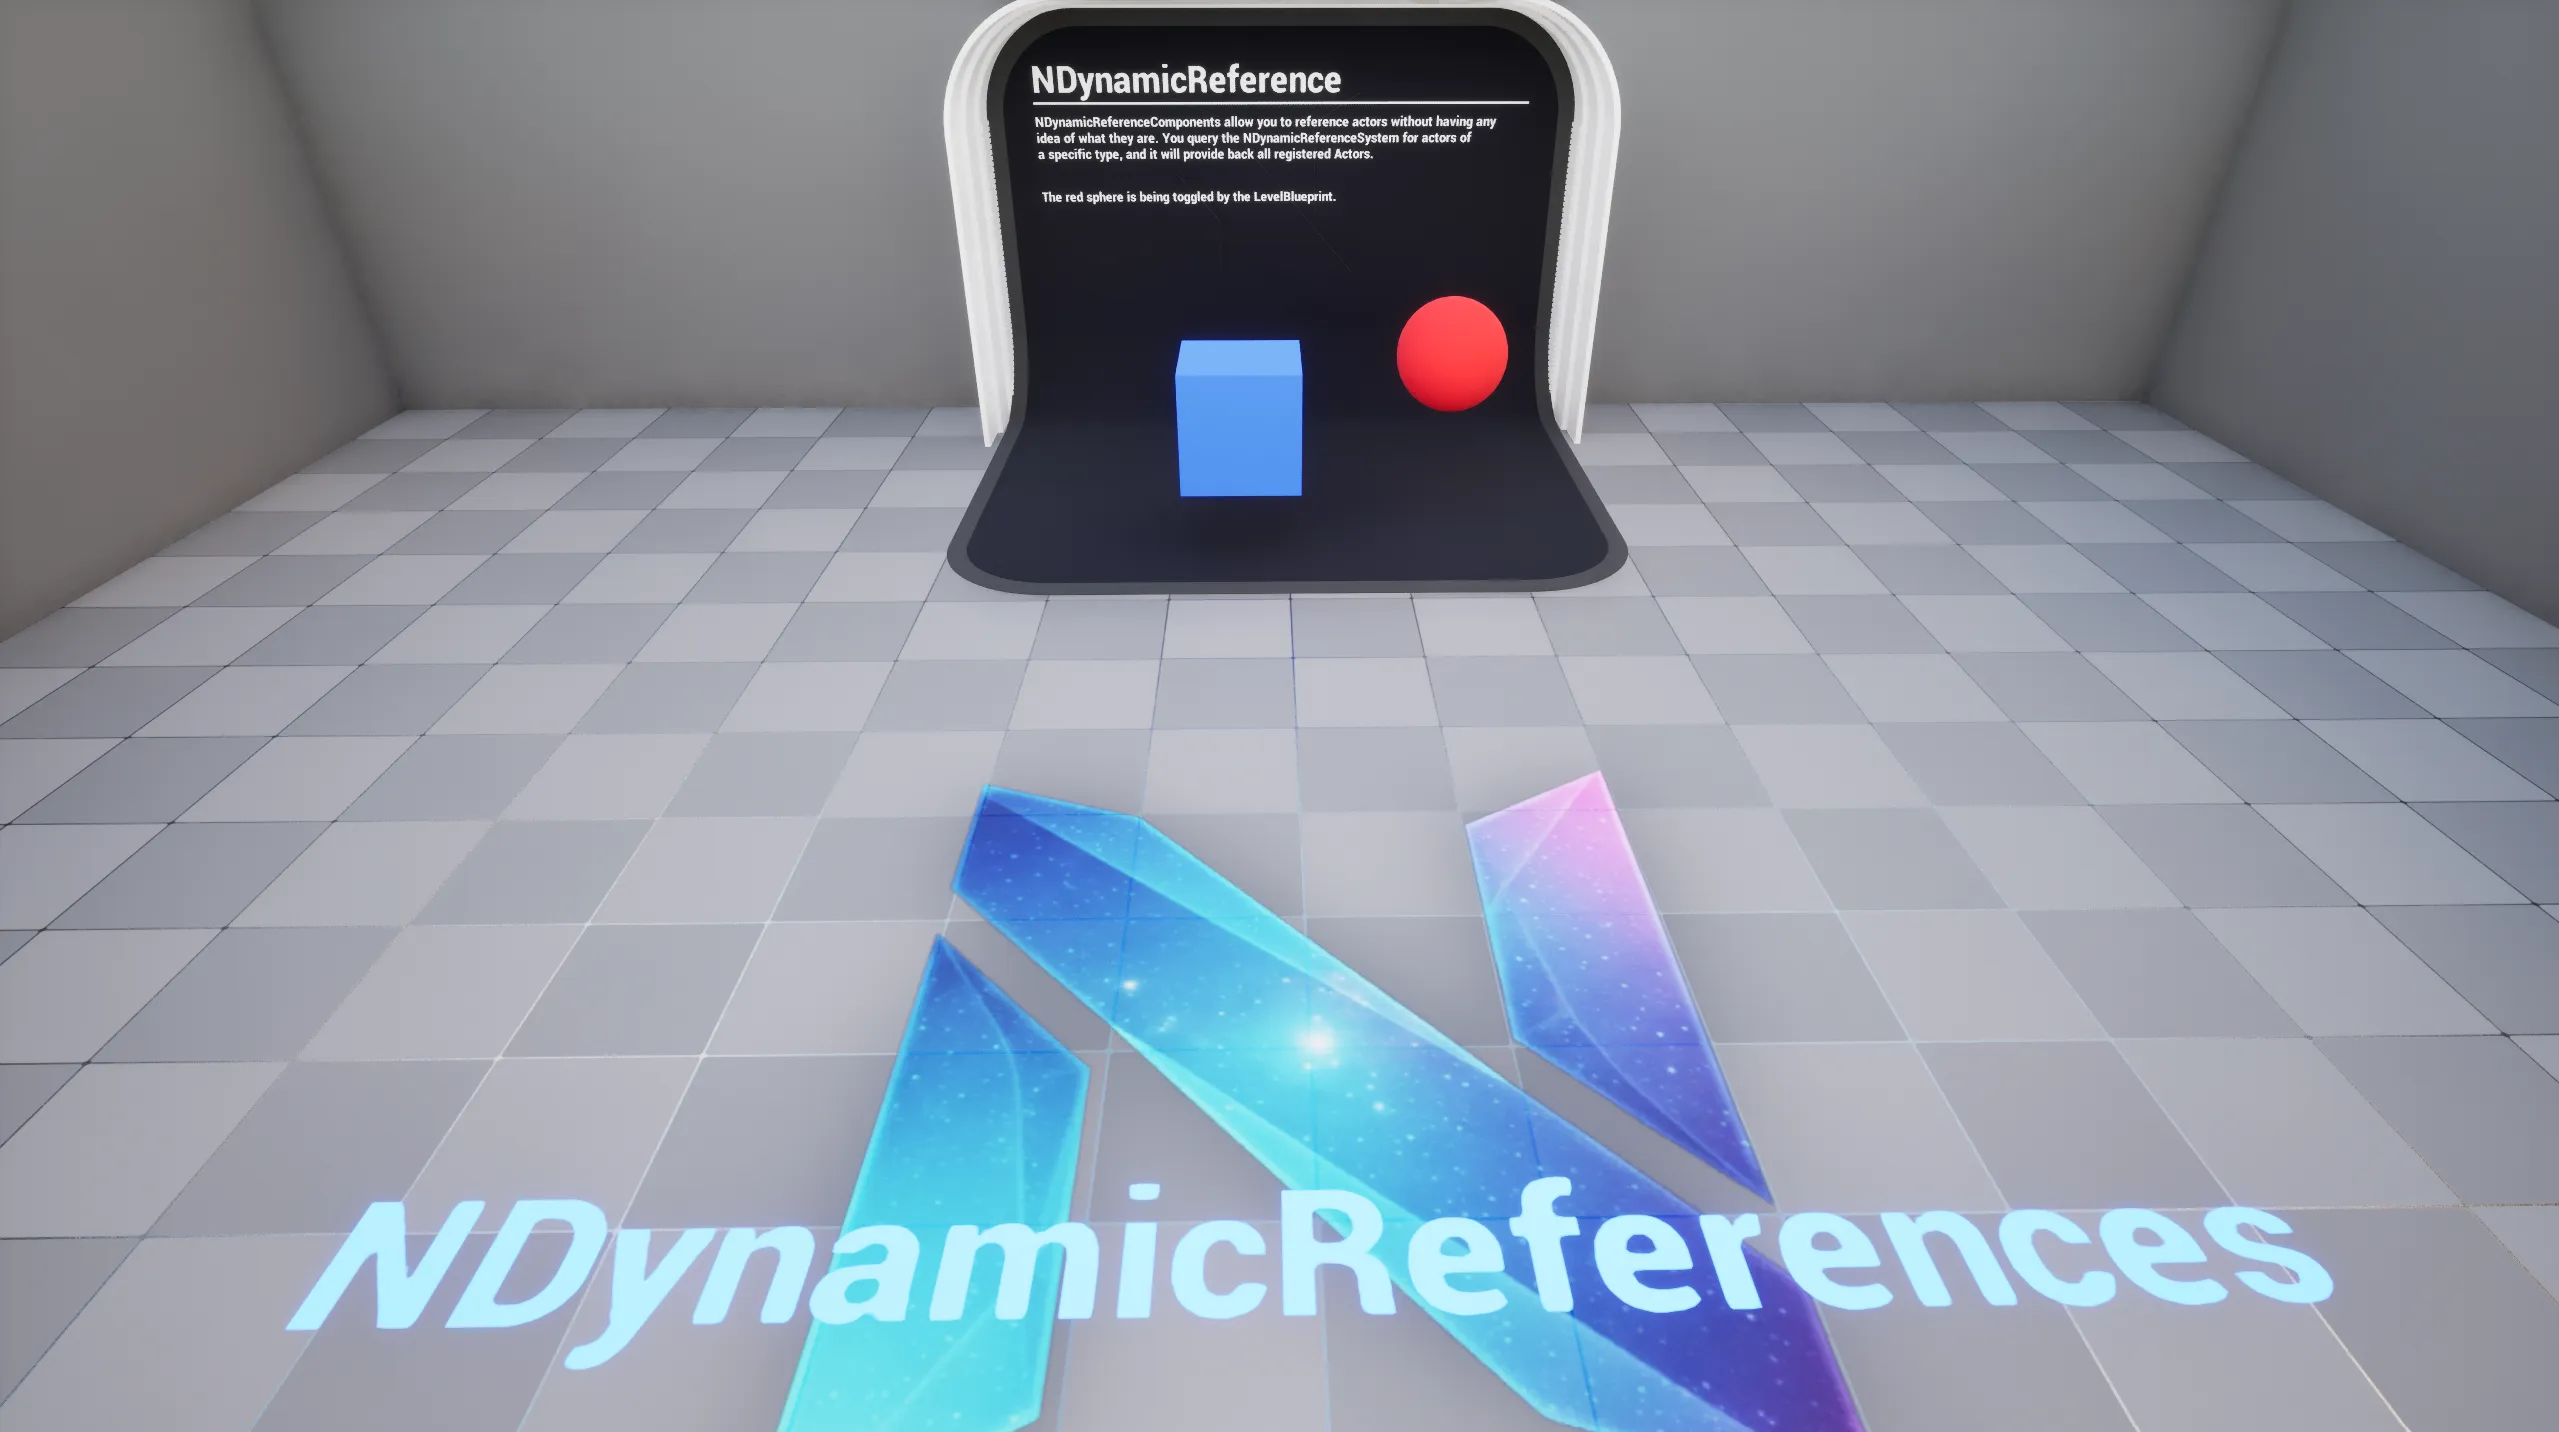
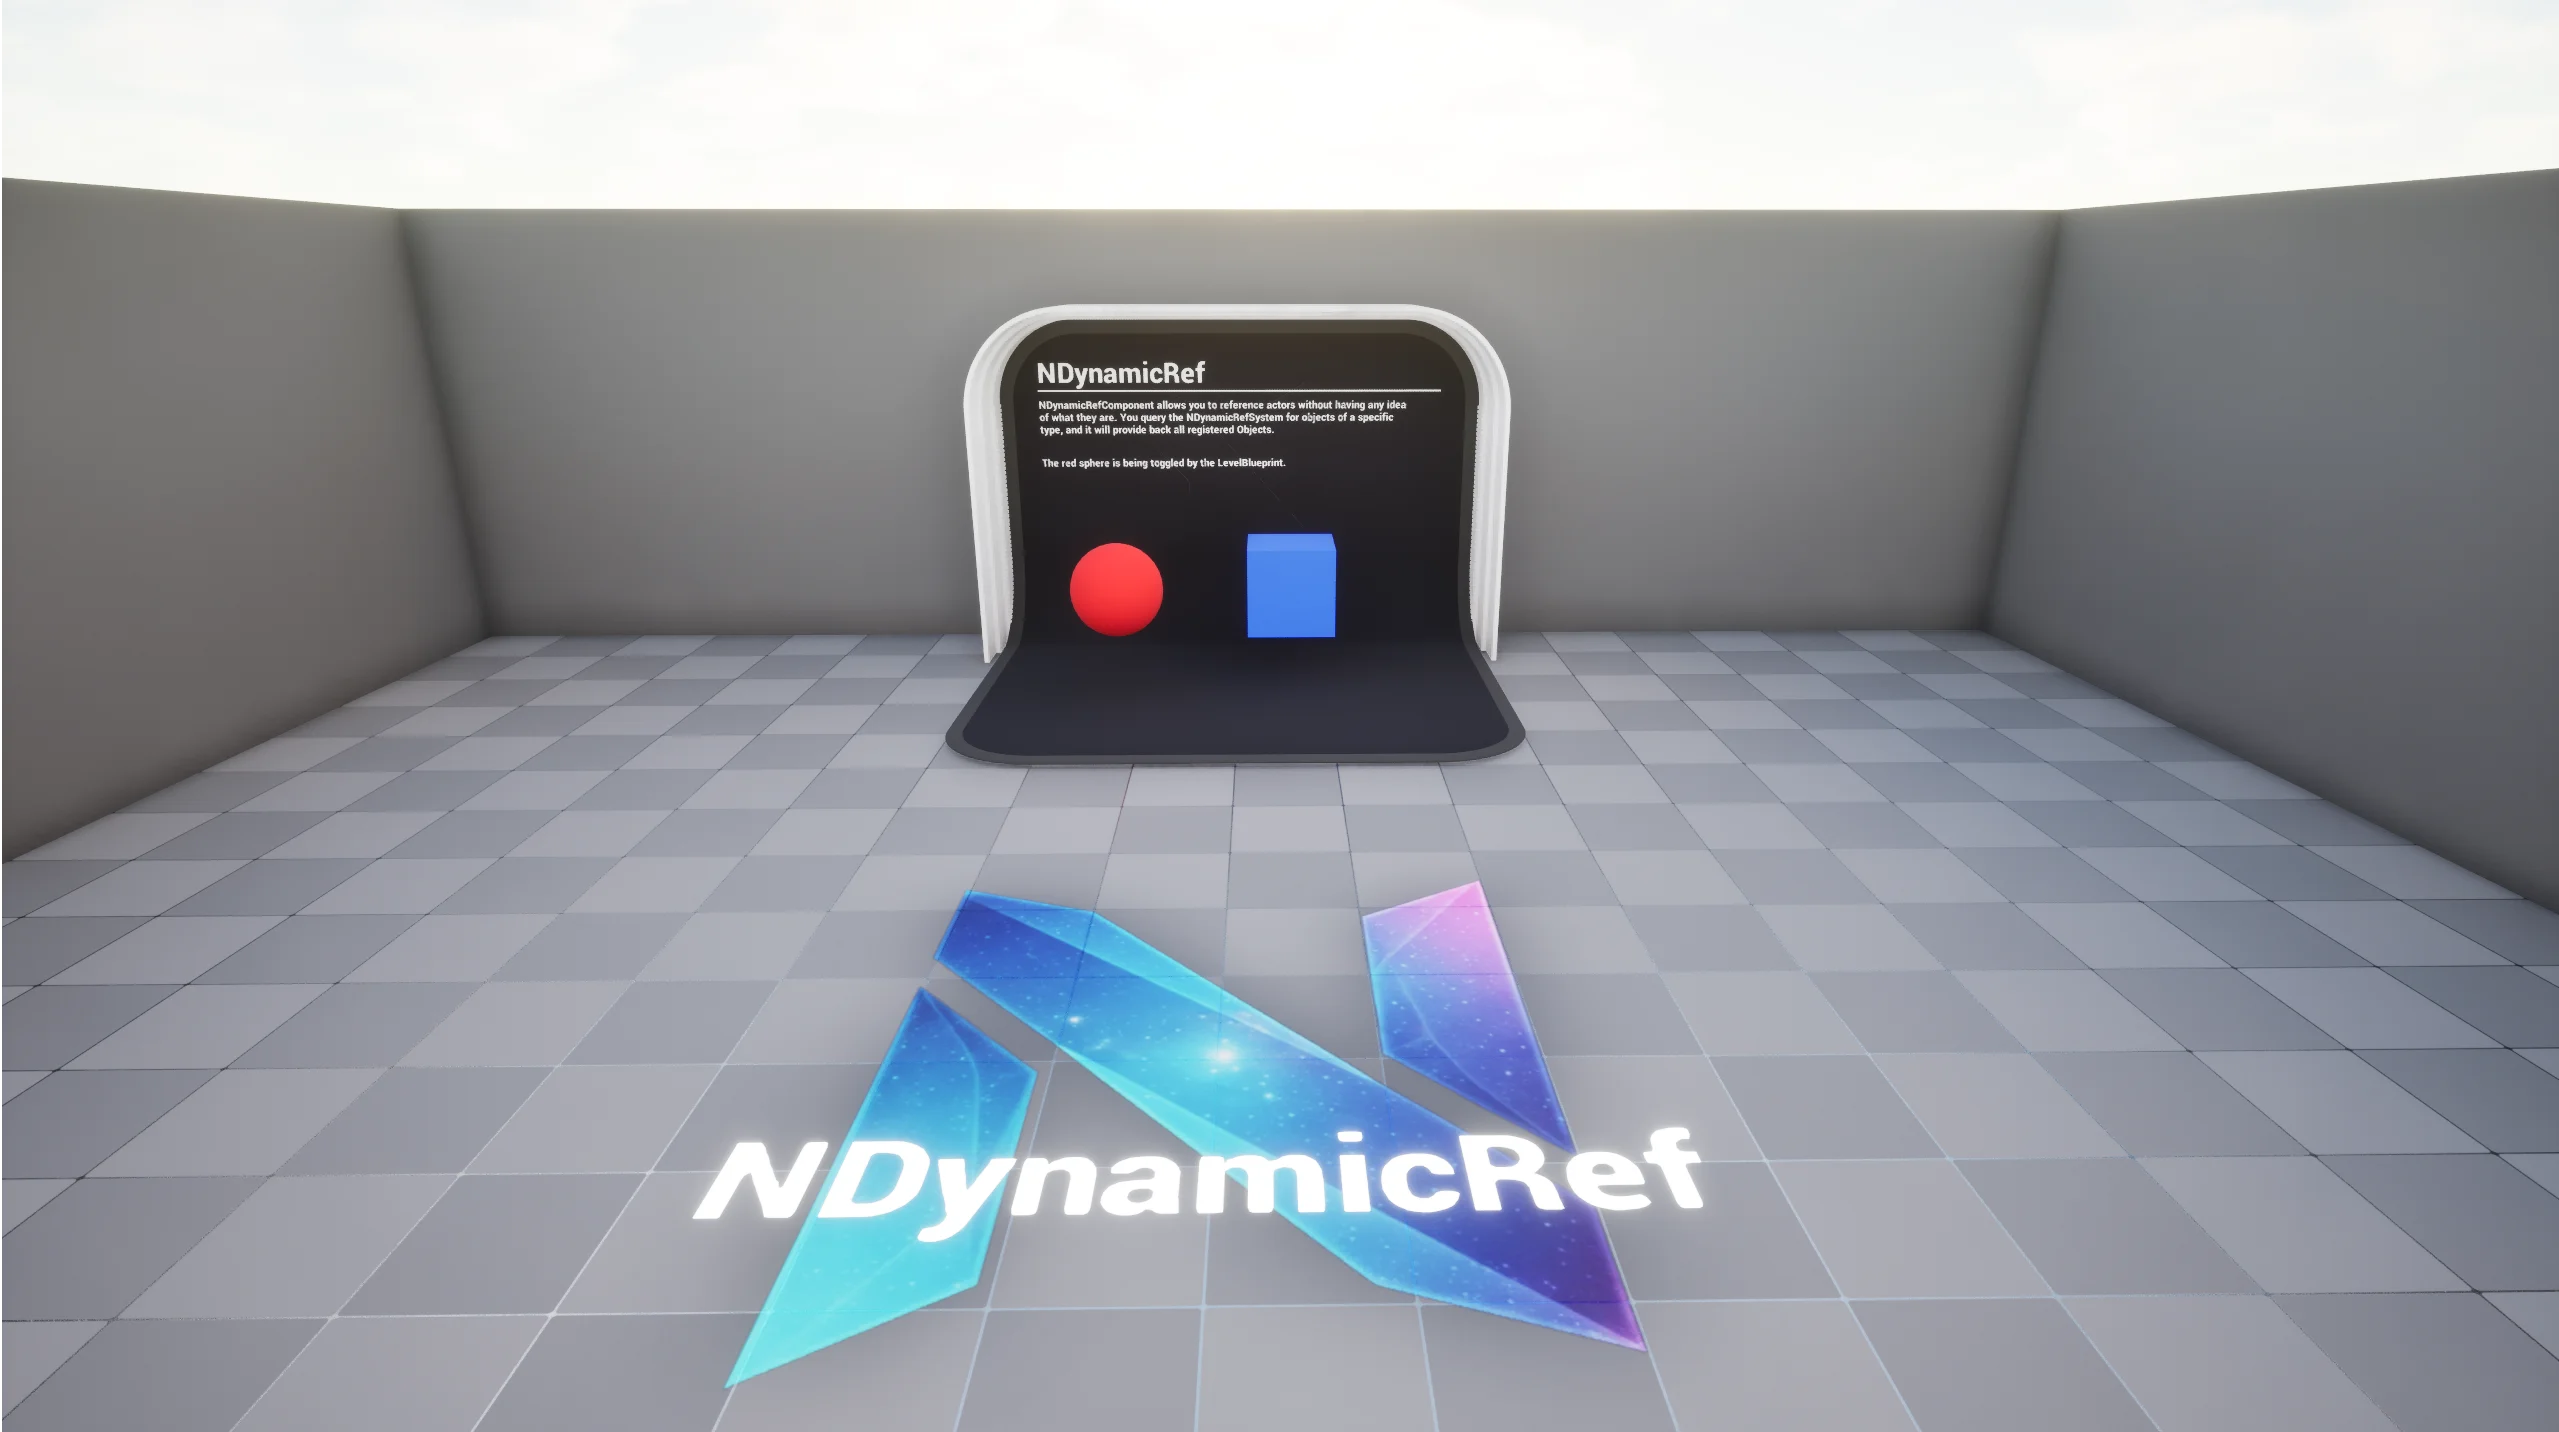
WIP on new dynamic ref docs

diff --git a/src/components/PluginDetails/index.tsx b/src/components/PluginDetails/index.tsx
@@ -39,16 +39,16 @@ var Plugins: { [id: string]: IPlugin; } = {
     blueprintCategory: "NEXUS > Actor Pools"
   },
 
-  "NexusDynamicReferences": {
+  "NexusDynamicRefs": {
     icon: "/assets/images/plugins/dynamic-references-icon.webp",
-    moduleName: "NexusDynamicReferences",
-    shortName: "NDynamicReferences",
+    moduleName: "NexusDynamicRef",
+    shortName: "NDynamicRef",
     category: "Systems",
     initialRelease: "0.1.0",
     owner: "reapazor",
-    description: "Method for referring to runtime Actors without knowing them.",
-    link: "/docs/plugins/dynamic-references/",
-    blueprintCategory: "NEXUS > Dynamic References"
+    description: "Method for referring to UObjects prior to runtime, and by developer readable names.",
+    link: "/docs/plugins/dynamic-ref/",
+    blueprintCategory: "NEXUS > DynamicRef"
   },
 
   "NexusFixers": {

diff --git a/docs/plugins/dynamic-references/types/dynamic-ref-subsystem.md b/docs/plugins/dynamic-references/types/dynamic-ref-subsystem.md
@@ -12,9 +12,9 @@ import TabItem from '@theme/TabItem';
 
 # Actor Pool Subsystem
 
-<TypeDetails icon="ue-world-subsystem" base="UTickableWorldSubsystem" type="UNDynamicReferencesSubsystem" typeExtra="" headerFile="NexusDynamicReferences/Public/NDynamicReferencesSubsystem.h" />
+<TypeDetails icon="ue-world-subsystem" base="UTickableWorldSubsystem" type="UNDynamicRefSubsystem" typeExtra="" headerFile="NexusDynamicRef/Public/NDynamicRefSubsystem.h" />
 
-A locator system that maintains a map (`ReferenceMap`) that organizes actors into predefined categories defined by the [ENDynamicReference](dynamic-reference.md) enumeration.
+A locator system that maintains a map (`ReferenceMap`) that organizes actors into predefined categories defined by the [ENDynamicRef](dynamic-ref.md) enumeration.
 
 ## Getting Actor References
 
@@ -26,13 +26,13 @@ Accessing referenced `AActor` can be done with minimal overhead.
 
 :::note
 
-In the above blueprint example, the [UNDynamicReferenceComponnet](dynamic-reference-component.md) would need to have its `Link Phase` set to `ACLS_InitializeComponent` in order to ensure it is registered prior to a hypothetical `BeginPlay()` event.
+In the above blueprint example, the [UNDynamicRefComponnet](dynamic-ref-component.md) would need to have its `Link Phase` set to `ACLS_InitializeComponent` in order to ensure it is registered prior to a hypothetical `BeginPlay()` event.
 
 :::  
   </TabItem>
   <TabItem value="native" label="C++" attributes={{className: 'tab-native' }}>
 ```cpp title="Getting Dynamic References"
-for (TArray<AActor*>& ReferencedActors = UNDynamicReferenceSubsystem::Get(GetWorld())->GetReferences(ENDynamicReference::NDR_Item_L);
+for (TArray<AActor*>& ReferencedActors = UNDynamicRefubsystem::Get(GetWorld())->GetReferences(ENDynamicRef::NDR_Item_L);
   AActor*& Actor : ReferencedActors)
 {
   // Do something with Actor
@@ -47,28 +47,28 @@ for (TArray<AActor*>& ReferencedActors = UNDynamicReferenceSubsystem::Get(GetWor
 
 ```cpp
 /**
-  * Add a reference by ENDynamicReference to a specified AActor.
+  * Add a reference by ENDynamicRef to a specified AActor.
   * @remark Be careful with the manual add method. If you add it, you must remove it!
   * @param InType The desired dynamic reference type to add too.
   * @param InActor The AActor to be referenced by the InType.
   */
-void AddReference(ENDynamicReference InType, AActor* InActor);
+void AddReference(ENDynamicRef InType, AActor* InActor);
 ```
 
 :::tip
 
-The [UNDynamicReferenceComponent](dynamic-reference-component.md) automatically manages the registration lifecycle.
+The [UNDynamicRefComponent](dynamic-ref-component.md) automatically manages the registration lifecycle.
 
 :::
 
 ### Remove Reference
 ```cpp
 /**
-  * Remove a reference by ENDynamicReference to a specified AActor.
+  * Remove a reference by ENDynamicRef to a specified AActor.
   * @param InType The desired dynamic reference type to remove from.
   * @param InActor The AActor to be have its reference removed by the InType.
   */
-void RemoveReference(ENDynamicReference InType, AActor* InActor);
+void RemoveReference(ENDynamicRef InType, AActor* InActor);
 ```
 
 ### Get References
@@ -79,6 +79,6 @@ void RemoveReference(ENDynamicReference InType, AActor* InActor);
   * @param InType The desired dynamic reference type to access.
   * @return An array of AActors. 
   */
-TArray<AActor*>& GetReferences(const ENDynamicReference InType) { return ReferenceMap[InType]; }
+TArray<AActor*>& GetReferences(const ENDynamicRef InType) { return ReferenceMap[InType]; }
 ```
 

diff --git a/docs/plugins/dynamic-references/types/dynamic-ref-component.md b/docs/plugins/dynamic-references/types/dynamic-ref-component.md
@@ -2,7 +2,7 @@
 sidebar_position: 1
 sidebar_label: Dynamic Reference Component
 sidebar_class_name: type ue-actor-component
-description: A component which registers and unregisters the owning AActor with the UNDynamicReferencesSubsystem for future query.
+description: A component which registers and unregisters the owning AActor with the UNDynamicRefSubsystem for future query.
 tags: [0.1.0]
 ---
 
@@ -10,13 +10,13 @@ import TypeDetails from '../../../../src/components/TypeDetails';
 
 # Dynamic Reference Component
 
-<TypeDetails icon="/assets/svg/dynamic-references/dynamic-references-component.svg" iconType="img" base="UActorComponent" type="UNDynamicReferencesComponent" typeExtra="" headerFile="NexusDynamicReferences/Public/NDynamicReferencesComponent.h" />
+<TypeDetails icon="/assets/svg/dynamic-refs/dynamic-refs-component.svg" iconType="img" base="UActorComponent" type="UNDynamicRefComponent" typeExtra="" headerFile="NexusDynamicRef/Public/NDynamicRefComponent.h" />
 
-A component which registers and unregisters the owning `AActor` with the [UNDynamicReferencesSubsystem](dynamic-reference-subsystem.md) for future lookup.
+A component which registers and unregisters the owning `AActor` with the [UNDynamicRefSubsystem](dynamic-ref-subsystem.md) for future lookup.
 
 ## Registration
 
-The component has settings for when the `AActor` is registered with the [UNDynamicReferencesSubsystem](dynamic-reference-subsystem.md) and for when it is unregistered. These correspond to different states of the lifecycle of the component, allowing for some other logic to occur before the `AActor` is referenceable, for example. 
+The component has settings for when the `AActor` is registered with the [UNDynamicRefSubsystem](dynamic-ref-subsystem.md) and for when it is unregistered. These correspond to different states of the lifecycle of the component, allowing for some other logic to occur before the `AActor` is referenceable, for example. 
 
 ### Link Phase
 
@@ -38,4 +38,4 @@ Utilizes a `ENActorComponentLifecycleEnd` enumeration to determine when to unreg
 
 ## References
 
-There is no hard limit on the number of reference types ([ENDynamicReference](dynamic-reference.md)) you can apply to a given component.
+There is no hard limit on the number of reference types ([ENDynamicRef](dynamic-ref.md)) you can apply to a given component.

diff --git a/docs/plugins/dynamic-references/quickstart.md b/docs/plugins/dynamic-references/quickstart.md
@@ -1,7 +1,7 @@
 ---
 sidebar_position: 1
 sidebar_label: Quickstart
-description: What you need to know to get up and running fast using NDynamicReferences.
+description: What you need to know to get up and running fast using NDynamicRef.
 ---
 
 import Tabs from '@theme/Tabs';
@@ -11,10 +11,10 @@ import TabItem from '@theme/TabItem';
 
 ## Add Component
 
-Add a [UNDynamicReferenceComponnet](types/dynamic-reference-component.md) to an `AActor` (*most likely your doing this on a `Blueprint`*), and assign it's References from the details inspector.
+Add a [UNDynamicRefComponnet](types/dynamic-ref-component.md) to an `AActor` (*most likely your doing this on a `Blueprint`*), and assign it's References from the details inspector.
 
-![NDynamicReferencesComponent](types/dynamic-references-component.webp)
+![NDynamicRefComponent](types/dynamic-ref-component.webp)
 
 ## Getting Actor References
 
-Accessing the [UNDynamicReferencesSubsystem](types/dynamic-reference-subsystem.md#getting-actor-references), referenced `AActors` can be queried.
+Accessing the [UNDynamicRefSubsystem](types/dynamic-ref-subsystem.md#getting-actor-references), referenced `AActors` can be queried.

diff --git a/docs/plugins/dynamic-references/samples.md b/docs/plugins/dynamic-references/samples.md
@@ -1,12 +1,12 @@
 ---
 sidebar_position: 9
-description: The sample content provided for NDynamicReferences.
+description: The sample content provided for NDynamicRef.
 ---
 
 # Samples
 
-![NDynamicReferences](dynamic-references-samples.webp)
+![NDynamicRef](dynamic-references-samples.webp)
 
-The `DEMO_NDynamicReferences` sample map is available once you have enabled the `NEXUS Samples: Dynamic References` plugin. This is found in the `NEXUS Samples` category in the `Edit > Plugins` window.
+The `DEMO_NDynamicRef` sample map is available once you have enabled the `NEXUS Samples: DynamicRef` plugin. This is found in the `NEXUS Samples` category in the `Edit > Plugins` window.
 
-The map has a singular example showcasing the [UNDynamicReferenceComponent](types/dynamic-reference-component.md) and its various uses. The level blueprint demonstrates how to access an `AActor` by it's `ENDynamicReference`.
+The map has a singular example showcasing the [UNDynamicRefComponent](types/dynamic-ref-component.md) and its various uses. The level blueprint demonstrates how to access an `AActor` by it's `ENDynamicRef`.

diff --git a/docs/plugins/dynamic-references/types/dynamic-ref.md b/docs/plugins/dynamic-references/types/dynamic-ref.md
@@ -10,7 +10,7 @@ import TypeDetails from '../../../../src/components/TypeDetails';
 
 # Dynamic Reference
 
-<TypeDetails icon="ue-enum" base="UEnum" type="EDynamicReference" typeExtra="" headerFile="NexusDynamicReferences/Public/NDynamicReference.h" />
+<TypeDetails icon="ue-enum" base="UEnum" type="EDynamicRef" typeExtra="" headerFile="NexusDynamicRef/Public/NDynamicRef.h" />
 
 An enumerated list of possible reference types.
 
